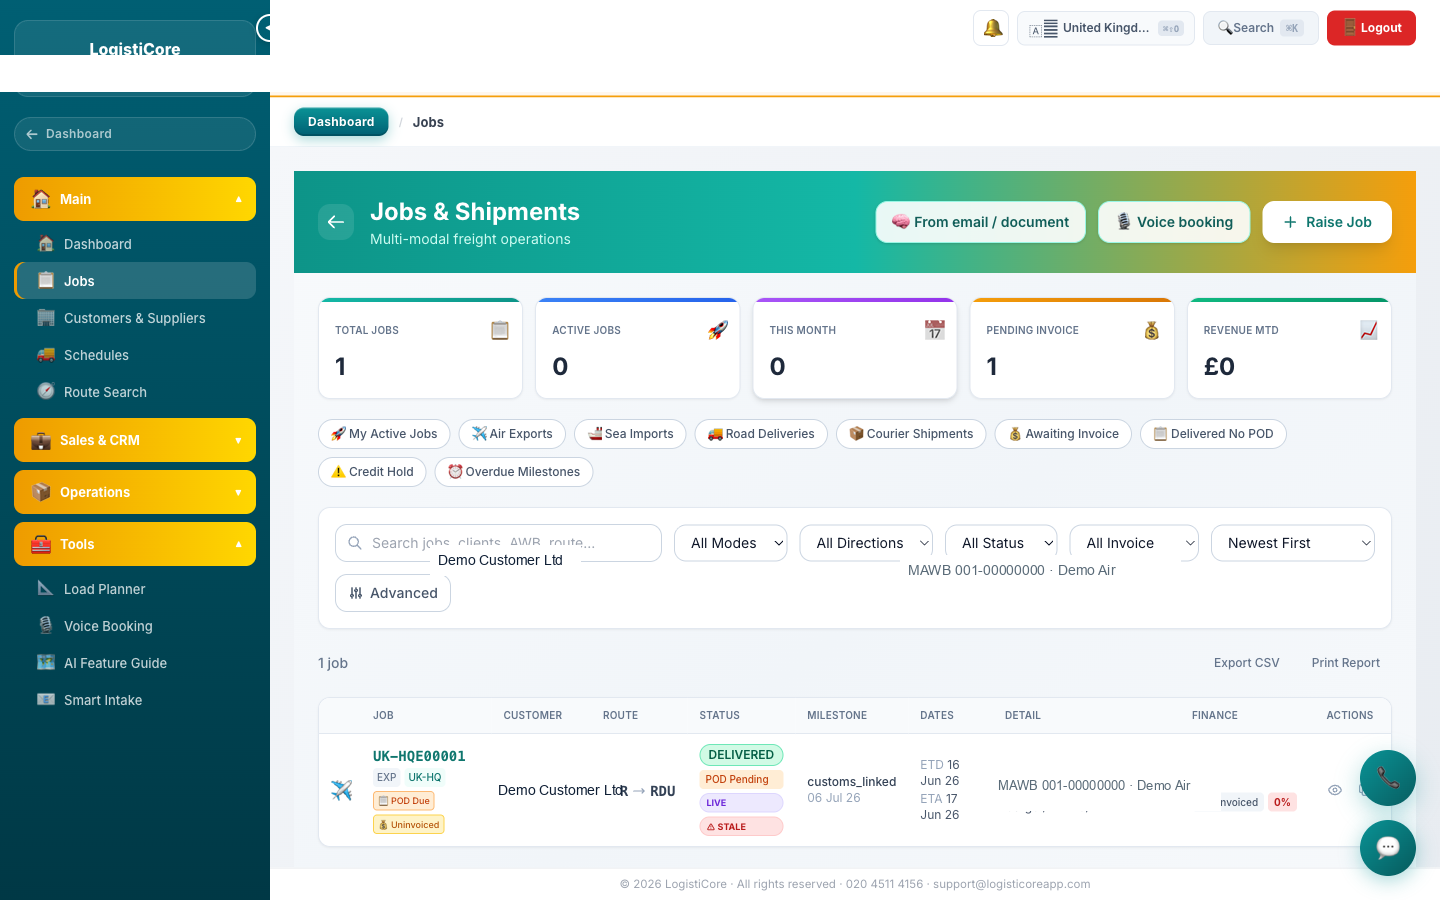
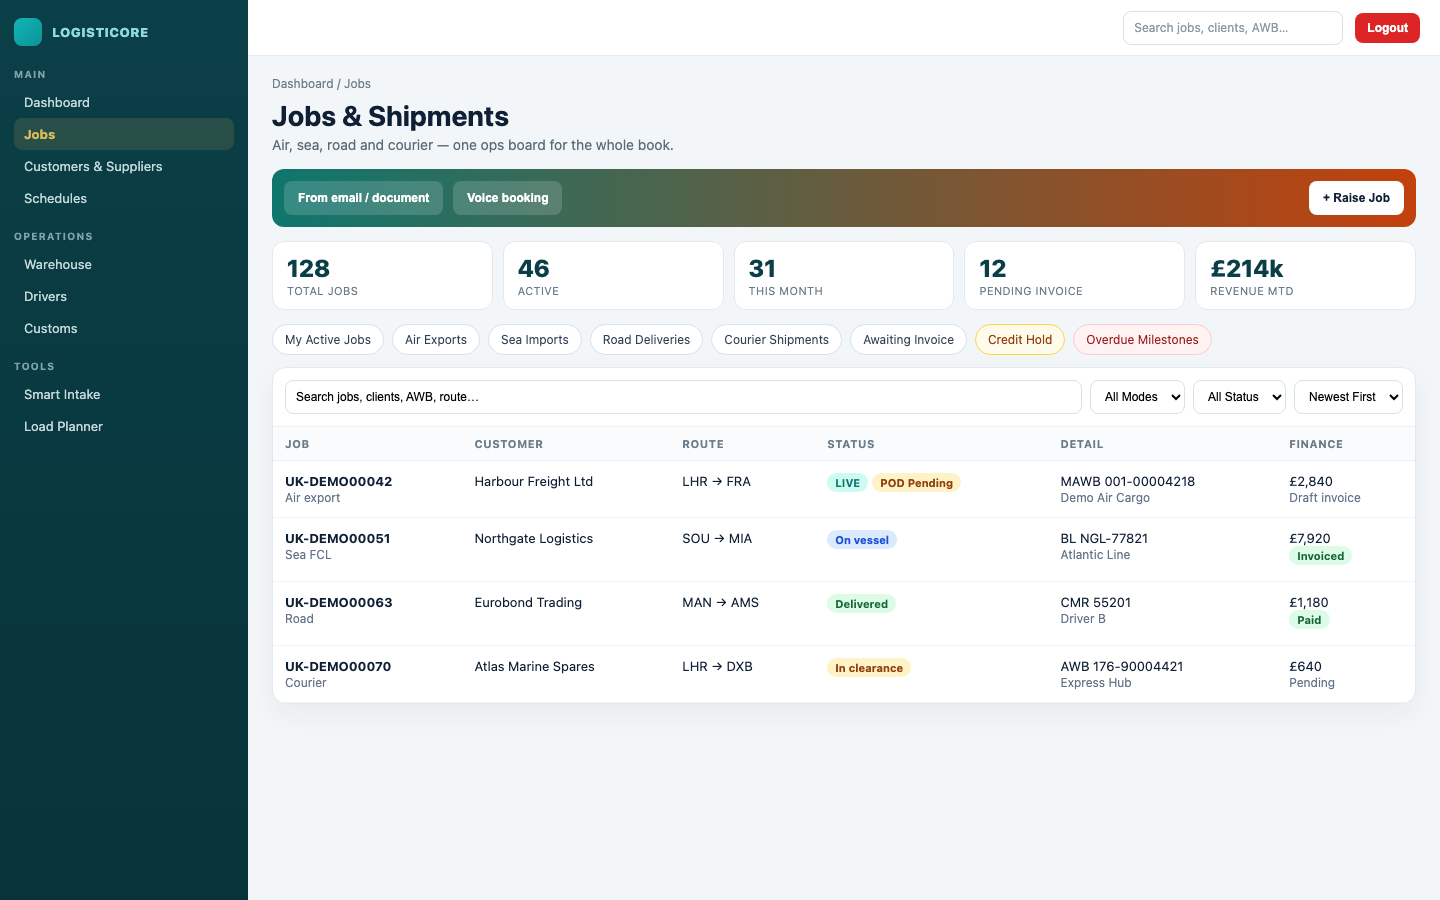
Replace blotchy redactions with clean demo product screens.
Rebuild jobs, dashboard and a centred dual-phone mobile hero so the public tour looks intentional instead of censored, and reframe mobile as core to the operation.

diff --git a/product-tour.html b/product-tour.html
@@ -398,9 +398,9 @@
         </div>
         <div class="scene-copy">
             <div class="scene-label">Mobile app</div>
-            <h2>Drivers and warehouse on their phones</h2>
-            <p>Navigate stops, capture POD, raise exceptions and scan putaway — without calling the desk for every update.</p>
-            <span class="scene-benefit">Hands on the floor, data in the system</span>
+            <h2>The floor runs through the same job file</h2>
+            <p>Driver collections, POD capture and warehouse scanning sit at the centre of the operation — updates hit ops and the client portal live.</p>
+            <span class="scene-benefit">Road and warehouse, one mobile app</span>
         </div>
     </section>
 
